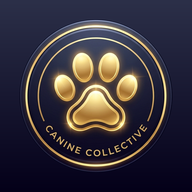
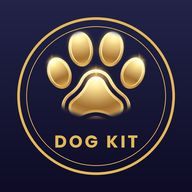
Icona app: zampa dorata con scritta DOG KIT
Claude-Session: https://claude.ai/code/session_01QyzxeuKsBAXdG6TvyLZQDG

diff --git a/public/sw.js b/public/sw.js
@@ -1,4 +1,4 @@
-const CACHE_NAME = 'dogkit-cache-v4';
+const CACHE_NAME = 'dogkit-cache-v5';
 const OFFLINE_FALLBACK_URL = '/index.html';
 
 const STATIC_ASSETS_TO_PRECACHE = [
